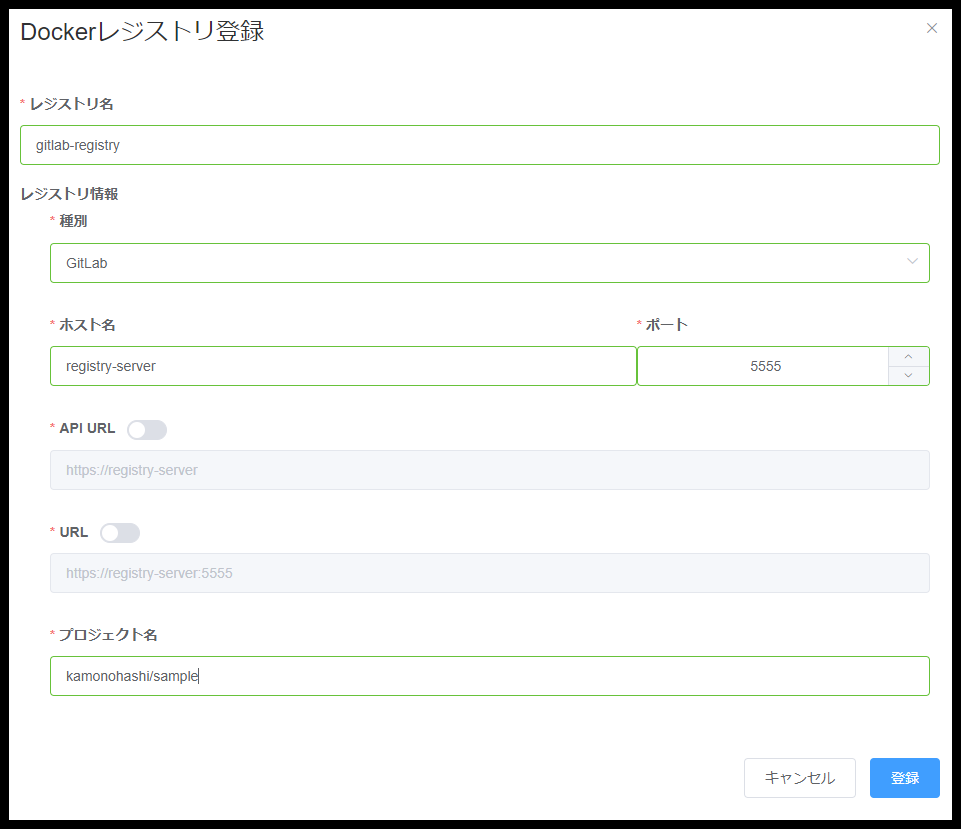
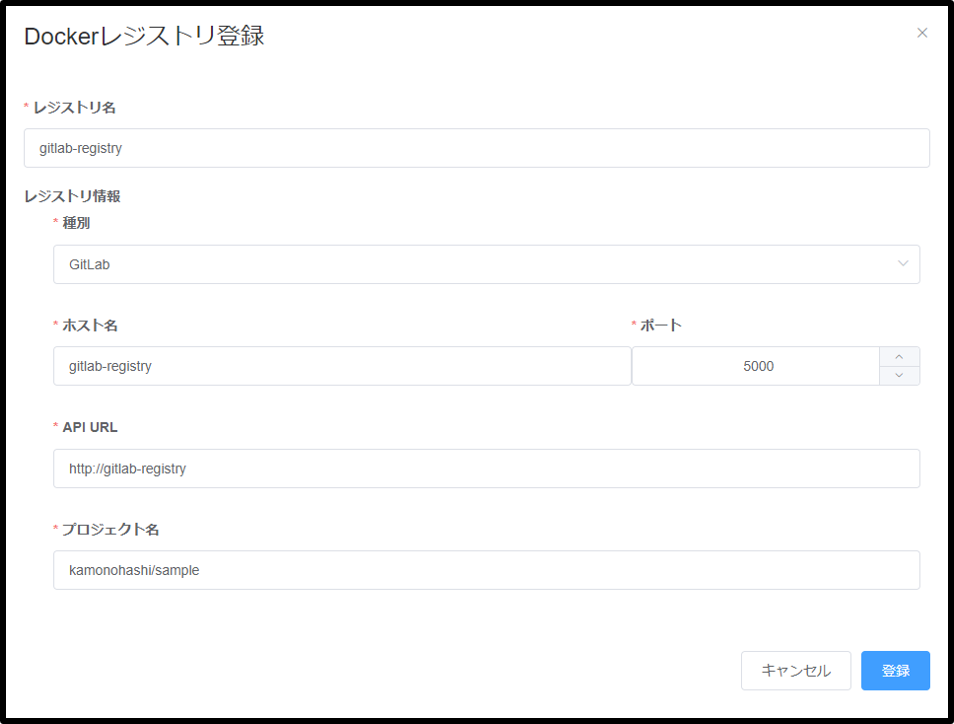
レジストリ登録の画像、文言修正

Changed region(s): [[0.0, 0.0, 1.0, 1.0]]

diff --git a/admin.md b/admin.md
@@ -125,9 +125,9 @@ Registry情報の新規登録は、以下のフローで実行できます。
 |レジストリ名  |必須  |識別名。管理者が各登録情報を識別しやすいような名前を入力する。英数字およびハイフンのみが使用可能。 |
 |種別  |必須  |DockerHubを選択する。  |
 |ホスト名  |必須  |イメージ名に使用されるレジストリのFQDNまたはIPアドレスを入力する。<br>（例）registry-server|
-|ポート番号  |必須  |イメージ名に使用されるレジストリのポート番号を入力する。<br>（例）5555|
-|API URL  |必須  |レジストリにREST APIでアクセスする際の基底URLを入力する。<br>https://ホスト名:ポート番号のように自動入力されるため、変更の必要がある場合はトグルボタンを選択し、編集する。|
-|URL  |必須  |レジストリにdockerコマンドでアクセスする際の基底URLを入力する。<br>https://ホスト名:ポート番号のように自動入力されるため、変更の必要がある場合はトグルボタンを選択し、編集する。|
+|ポート番号  |必須  |イメージ名に使用されるレジストリのポート番号を入力する。<br>（例）5000|
+|API URL  |必須  |レジストリにREST APIでアクセスする際の基底URLを入力する。<br>https://ホスト名のように自動入力されるため、変更の必要がある場合は編集する。|
+
 
 ##### GitLab APIの場合
 
@@ -136,9 +136,8 @@ Registry情報の新規登録は、以下のフローで実行できます。
 |レジストリ名  |必須  |識別名。管理者が各登録情報を識別しやすいような名前を入力する。英数字およびハイフンのみが使用可能。 |
 |種別  |必須  |GitLabを選択する。  |
 |ホスト名  |必須  |イメージ名に使用されるレジストリのFQDNまたはIPアドレスを入力する。<br>（例）registry-server|
-|ポート番号  |必須  |イメージ名に使用されるレジストリのポート番号を入力する。<br>（例）5555|
-|API URL  |必須  |レジストリにREST APIでアクセスする際の基底URLを入力する。基本的にはGitLabのWeb URLと等しい。<br>https://ホスト名:ポート番号のように自動入力されるため、変更の必要がある場合はトグルボタンを選択し、編集する。|
-|URL  |必須  |レジストリにdockerコマンドでアクセスする際の基底URLを入力する。<br> 基本的にポート番号はWeb URLではなくレジストリのポート番号となる。<br>https://ホスト名:ポート番号のように自動入力されるため、変更の必要がある場合はトグルボタンを選択し、編集する。|
+|ポート番号  |必須  |イメージ名に使用されるレジストリのポート番号を入力する。<br>（例）5000|
+|API URL  |必須  |レジストリにREST APIでアクセスする際の基底URLを入力する。基本的にはGitLabのWeb URLと等しい。<br>https://ホスト名のように自動入力されるため、変更の必要がある場合は編集する。|
 |プロジェクト名  |任意  |プロジェクトパスを、"オーナー名(ユーザ名またはグループ名)/プロジェクト名"の形式で入力する。<br>（例）kamonohashi/sample  |
 
 #### テナントの新規作成
